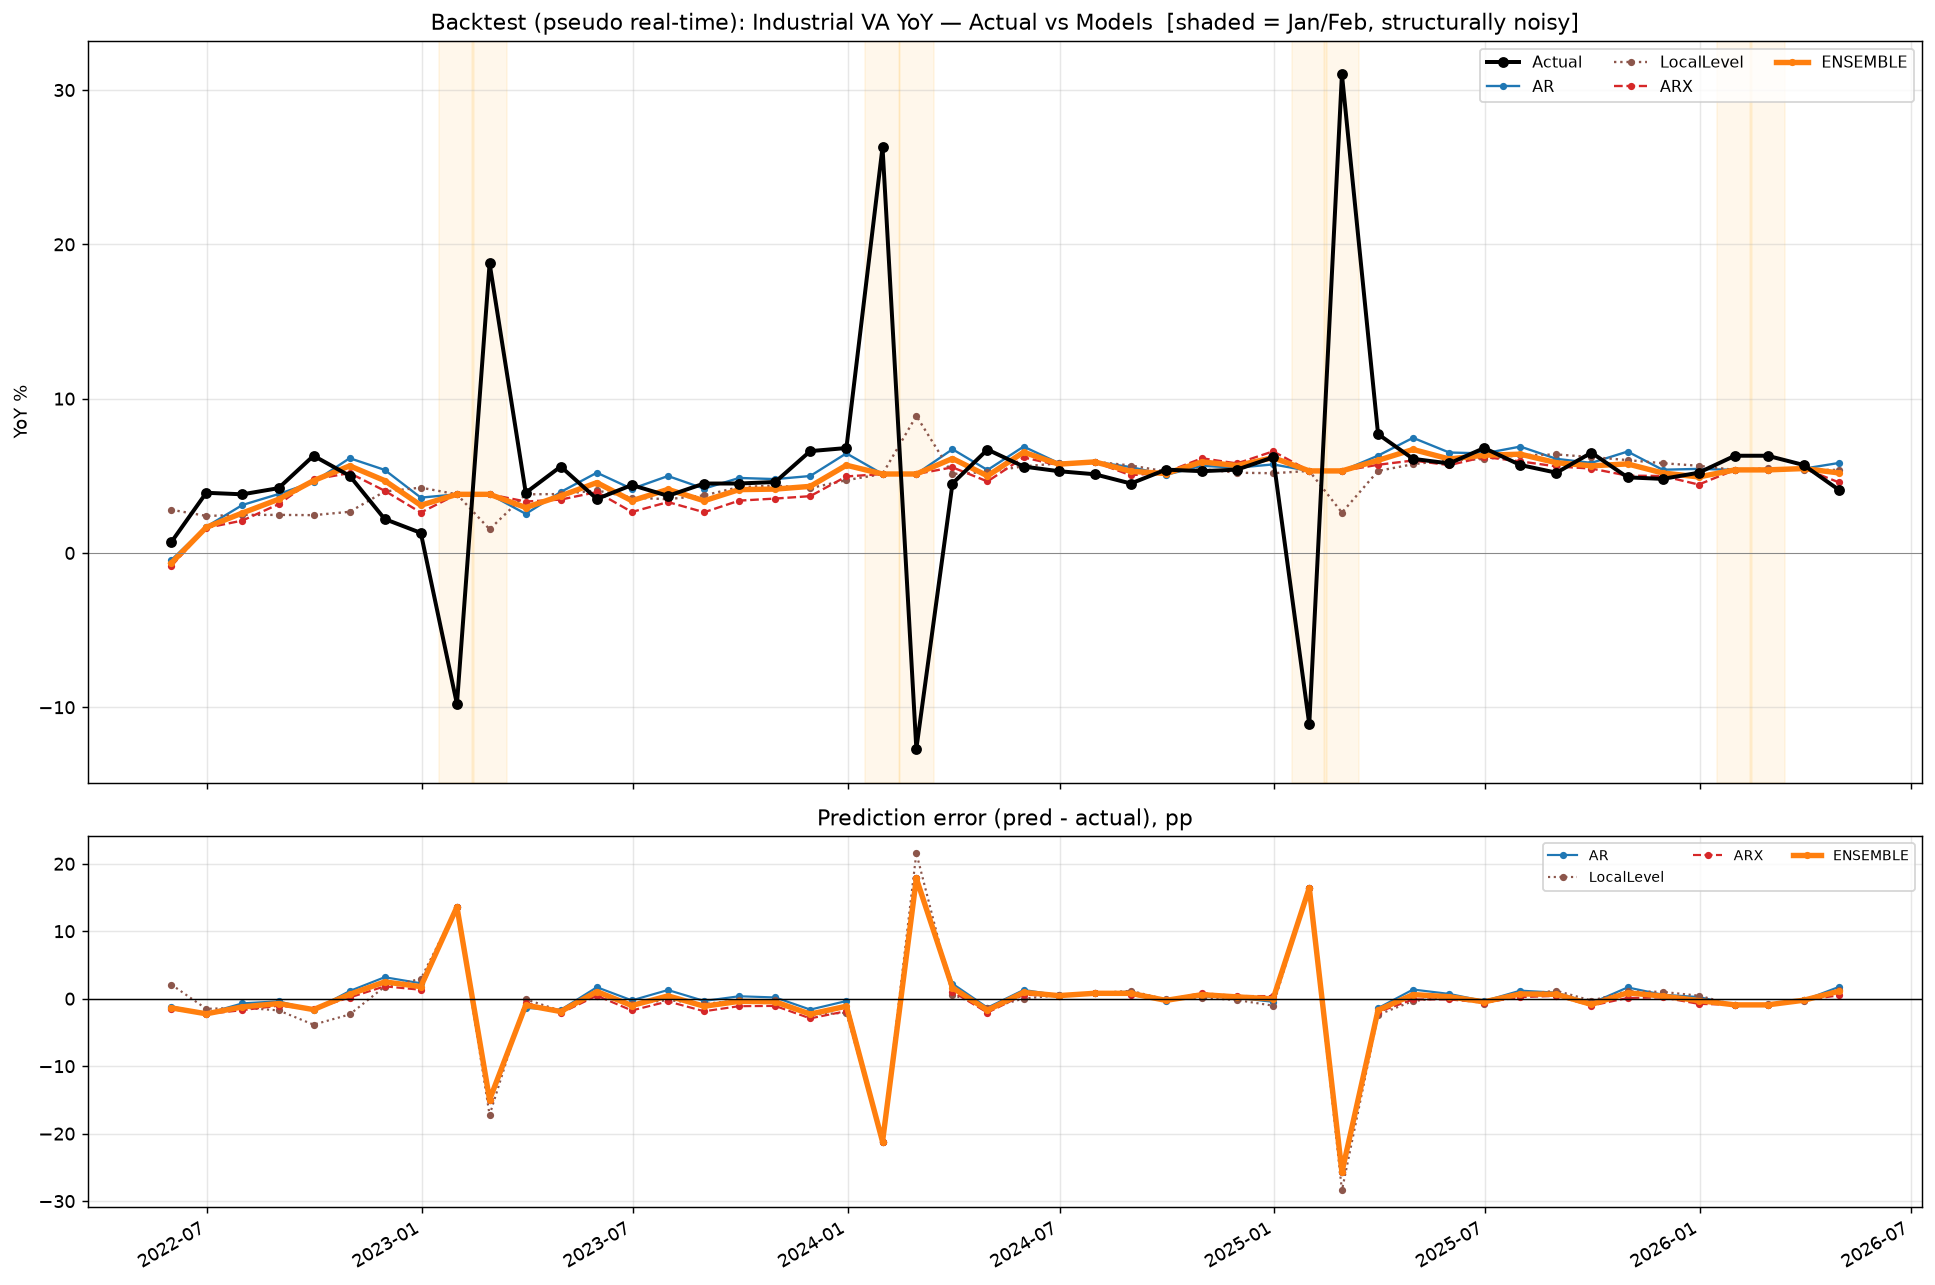
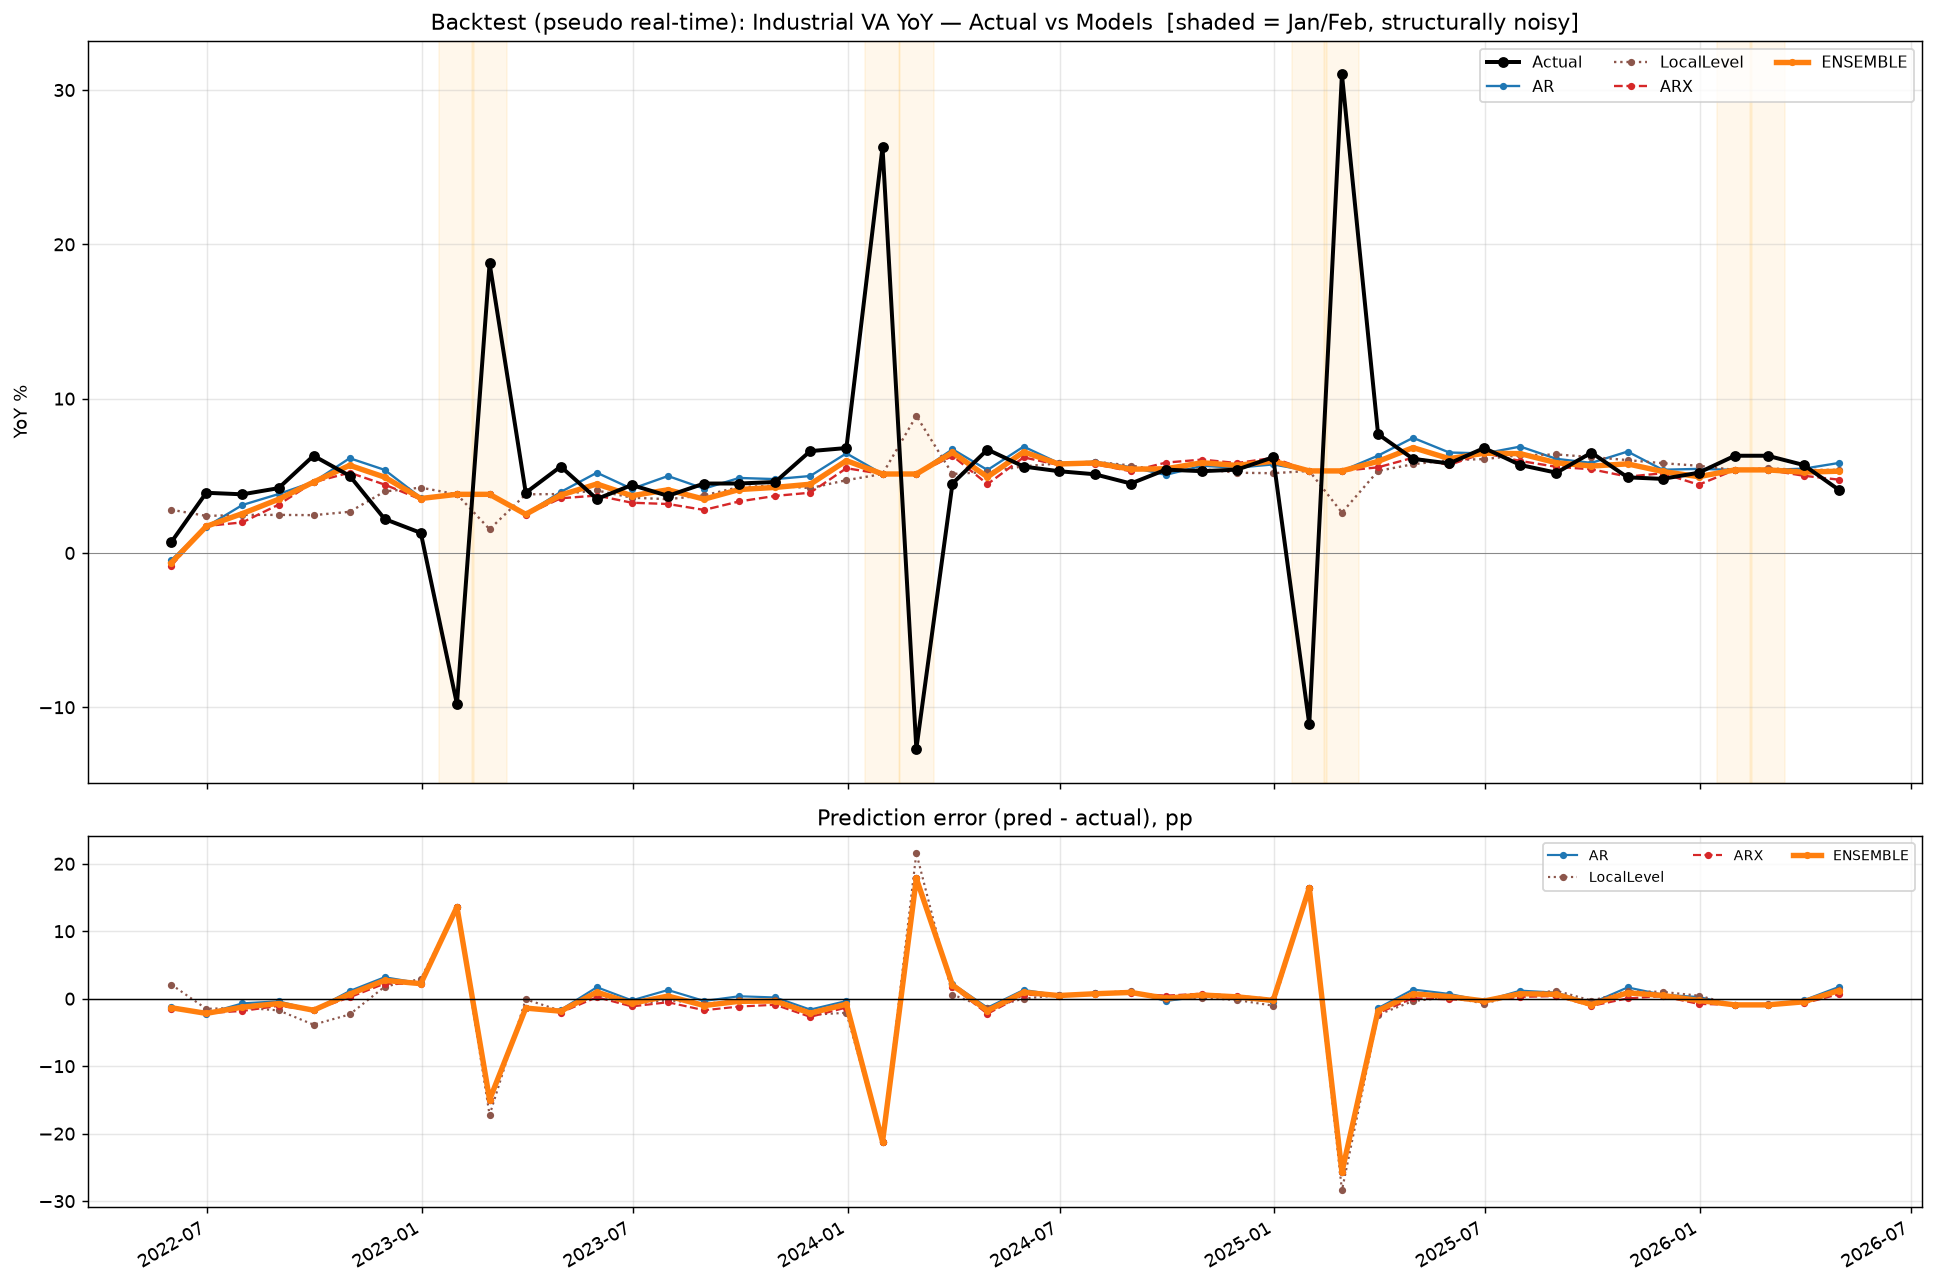
预测时点不写死:as_of按汇总表采集日自动推断;文档化发布滞后与训练量
Fix(预测时点不固定): asof_day 不再写死23号。新增 infer_collection_date(取各sheet最新
观测日=采集日)与 resolve_asof_day;main()加载数据后自动把 as_of 的"当月第几天"设为采集
日的day,随每次采集时间自动平移。run_date/asof_day_of_month 可显式覆盖。
本表采集日自动推断为2026-05-25 -> as_of=当月25号(原写死23号会丢弃5月22-25日高频)。

发布滞后(pub_lag)文档化:目标/月度宏观16天(NBS次月15-17日)、高频4天(日~1/周~3-5/旬~5的
折中)。在20-25号as_of下,visibility(上月可见、当月未发布)对pub_lag在[10,30]稳健。

效果:as_of=25后5月预测4.44%(实际4.5,误差0.06,优于23号的0.15);组合剔1-2月RMSE 1.186。

Claude-Session: https://claude.ai/code/session_01Lyk2ycG3dbMTHNTX5YaMUQ

diff --git a/industrial_va_forecast.py b/industrial_va_forecast.py
@@ -97,15 +97,18 @@ class Config:
     # ---- 输出 ----
     out_dir: str = "output"
 
-    # ---- 真实时点口径 ----
-    # 业务口径：每月 20-25 号预测【当月(=下一个未发布月)】的工业增加值。
-    # 故预测月 T 的评估时点 as_of = T 当月的 asof_day_of_month 号（默认 23 号）。
-    # 此时：T 的高频已覆盖约 2/3 个月(残月)；T 的工业增加值/月度宏观(发布滞后≈16天)
-    # 尚未发布(只到 T-1)。与"伪真实时点回测"使用完全相同的规则。
-    asof_day_of_month: int = 23
-    pub_lag_target_days: int = 16    # 工业增加值发布滞后（次月约 15-16 日）
-    pub_lag_month_days: int = 16     # 月度宏观自变量发布滞后
-    pub_lag_highfreq_days: int = 4   # 高频(日/周/旬)发布滞后
+    # ---- 真实时点口径（预测时点不写死，按汇总表数据自动推断）----
+    # 业务：每月不固定的某天(大概率20-25号)收集最新汇总表后预测【下一个未发布月】。
+    # 预测时点 as_of 不固定为某号，而是【按汇总表自身的数据新鲜度自动确定】：
+    #   run_date = 各 sheet 最新观测日期的最大值(=实际采集日)；asof_day = run_date.day。
+    # 于是预测月T的 as_of = T 当月的 asof_day 号；因 T=采集当月，该 as_of 即 run_date 本身，
+    # 回测各历史月也用同一 asof_day，随采集时间自动平移、不写死。
+    # run_date / asof_day_of_month 为 None 时自动从数据推断；亦可显式覆盖。
+    run_date: Optional[str] = None          # 如 "2026-05-25"；None=自动取数据最新日期
+    asof_day_of_month: Optional[int] = None  # None=自动取 run_date.day
+    pub_lag_target_days: int = 16    # 工业增加值发布滞后（次月约 15-16 日，NBS）
+    pub_lag_month_days: int = 16     # 月度宏观发布滞后（社零/投资 15-17日；PPI~9日；PMI月末）
+    pub_lag_highfreq_days: int = 4   # 高频发布滞后（日~1天/周~3-5天/旬~5天 的折中）
 
     # ---- 回测 ----
     backtest_months: int = 48        # 回测的外推月数（从最近往前）。生产可调大。
@@ -1111,14 +1114,35 @@ def _wire_context_cache(ctx: Context):
 # ==============================================================================
 # 第 10 节  真实时点工具：由"预测月"推出 as_of
 # ==============================================================================
-def asof_for_target(cfg: Config, target_month: pd.Timestamp) -> pd.Timestamp:
-    """预测月 T 的评估时点 = T 当月的 asof_day_of_month 号（默认 23 号）。
+def infer_collection_date(raw: dict) -> pd.Timestamp:
+    """从汇总表推断采集日 = 各 sheet 最新观测日期的最大值(数据新鲜度)。"""
+    mx = None
+    for df in raw.values():
+        if "date" in df.columns and len(df):
+            d = pd.to_datetime(df["date"]).max()
+            mx = d if mx is None else max(mx, d)
+    return pd.Timestamp(mx)
 
-    对齐业务"每月20-25号预测当月"：此时 T 的高频已覆盖约 2/3 个月(残月)，目标与月度
-    宏观(滞后≈16天)对 T 尚不可见、对 T-1 可见。回测与实盘使用同一规则，杜绝前视偏差。
+
+def resolve_asof_day(cfg: Config, raw: dict) -> int:
+    """确定 as_of 的"当月第几天"：优先用 cfg 显式值，否则取采集日(run_date)的 day。"""
+    if cfg.asof_day_of_month is not None:
+        return int(cfg.asof_day_of_month)
+    run = pd.Timestamp(cfg.run_date) if cfg.run_date else infer_collection_date(raw)
+    return int(run.day)
+
+
+def asof_for_target(cfg: Config, target_month: pd.Timestamp) -> pd.Timestamp:
+    """预测月 T 的评估时点 = T 当月的 asof_day 号。
+
+    asof_day 不写死：由 main() 在加载数据后调用 resolve_asof_day() 按【汇总表采集日】
+    自动确定并写回 cfg.asof_day_of_month，随采集时间自动平移。若未解析(独立调用)则回退 23。
+    业务含义：此时 T 的高频已覆盖约 2/3 个月(残月)，目标与月度宏观对 T 尚不可见、对 T-1
+    可见。回测与实盘使用同一规则，杜绝前视偏差。
     """
     tm = month_end(target_month)
-    day = min(cfg.asof_day_of_month, tm.day)
+    day = cfg.asof_day_of_month if cfg.asof_day_of_month is not None else 23
+    day = min(int(day), tm.day)
     return pd.Timestamp(year=tm.year, month=tm.month, day=day)
 
 
@@ -1702,6 +1726,12 @@ def main(cfg: Config = CFG):
     # 1) 读取 + 校验
     loader = DataLoader(cfg, indicators)
     raw = loader.load()
+
+    # 1b) 预测时点不写死：按汇总表采集日自动确定 as_of 的"当月第几天"
+    run_date = pd.Timestamp(cfg.run_date) if cfg.run_date else infer_collection_date(raw)
+    cfg.asof_day_of_month = resolve_asof_day(cfg, raw)
+    LOG.info("汇总表采集日(run_date)=%s -> as_of 取当月第 %d 天(随采集自动平移，未写死)",
+             run_date.date(), cfg.asof_day_of_month)
 
     # 2) 组装上下文
     aligner = FrequencyAligner(cfg, raw, indicators)
